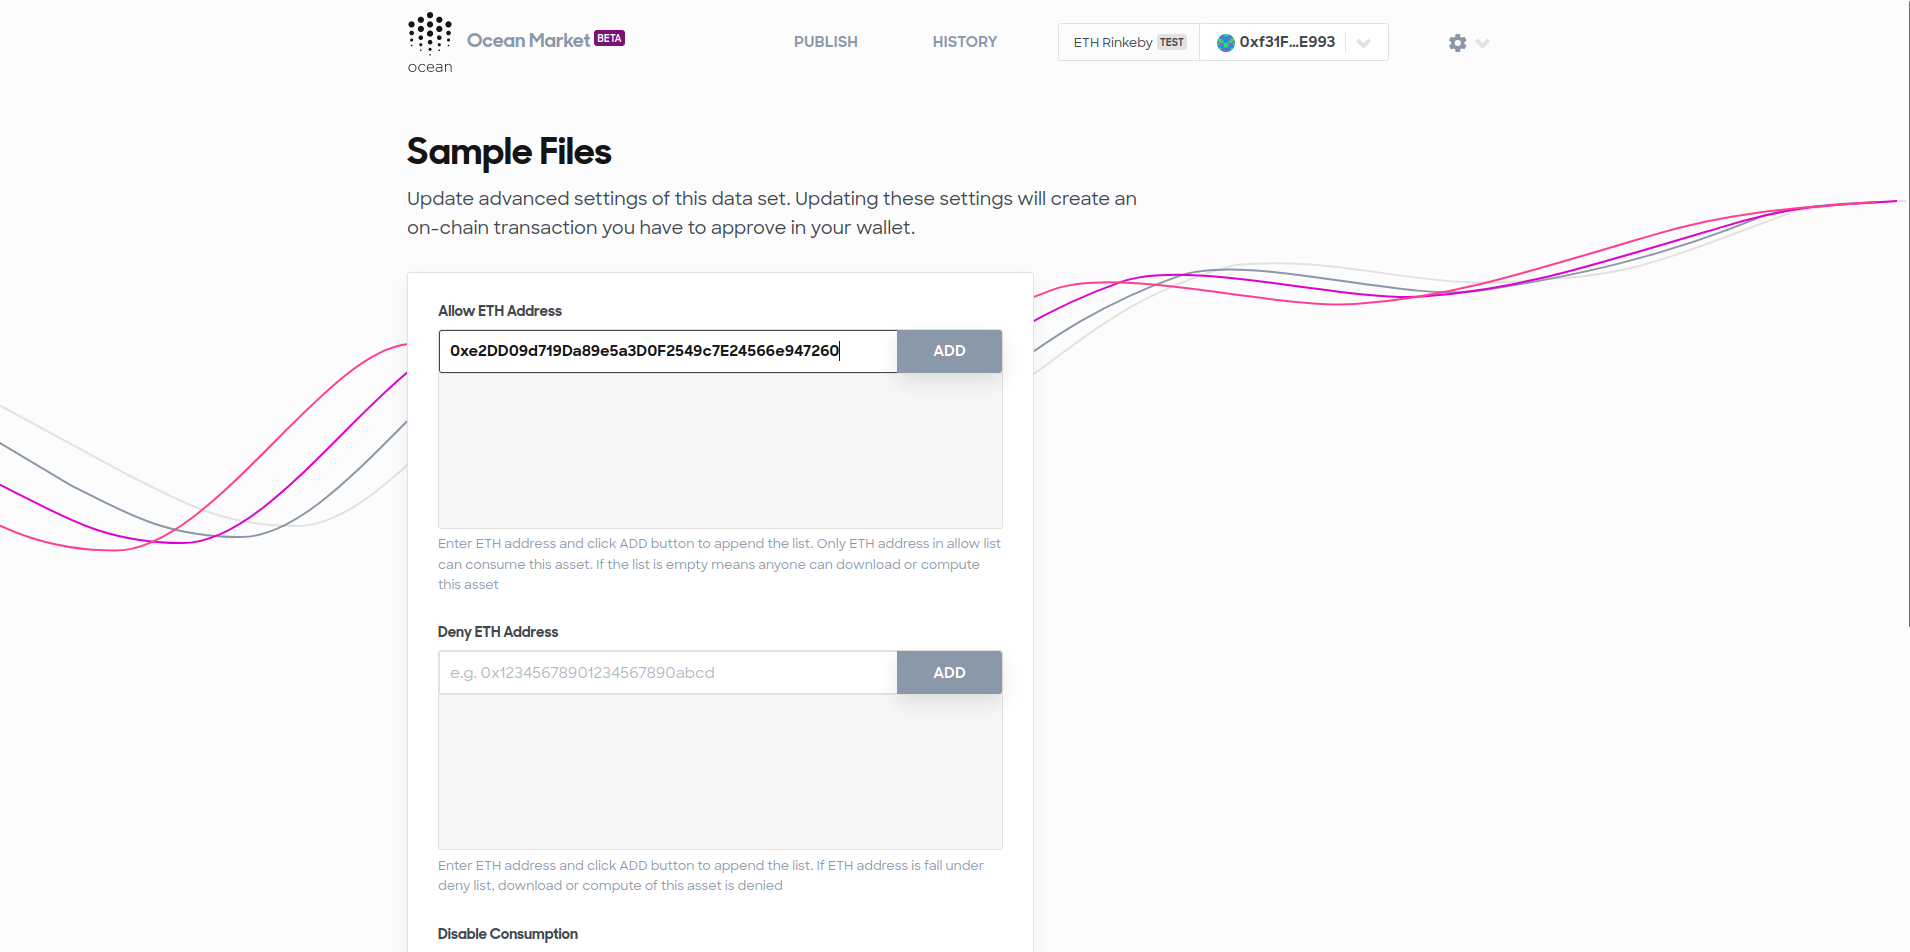
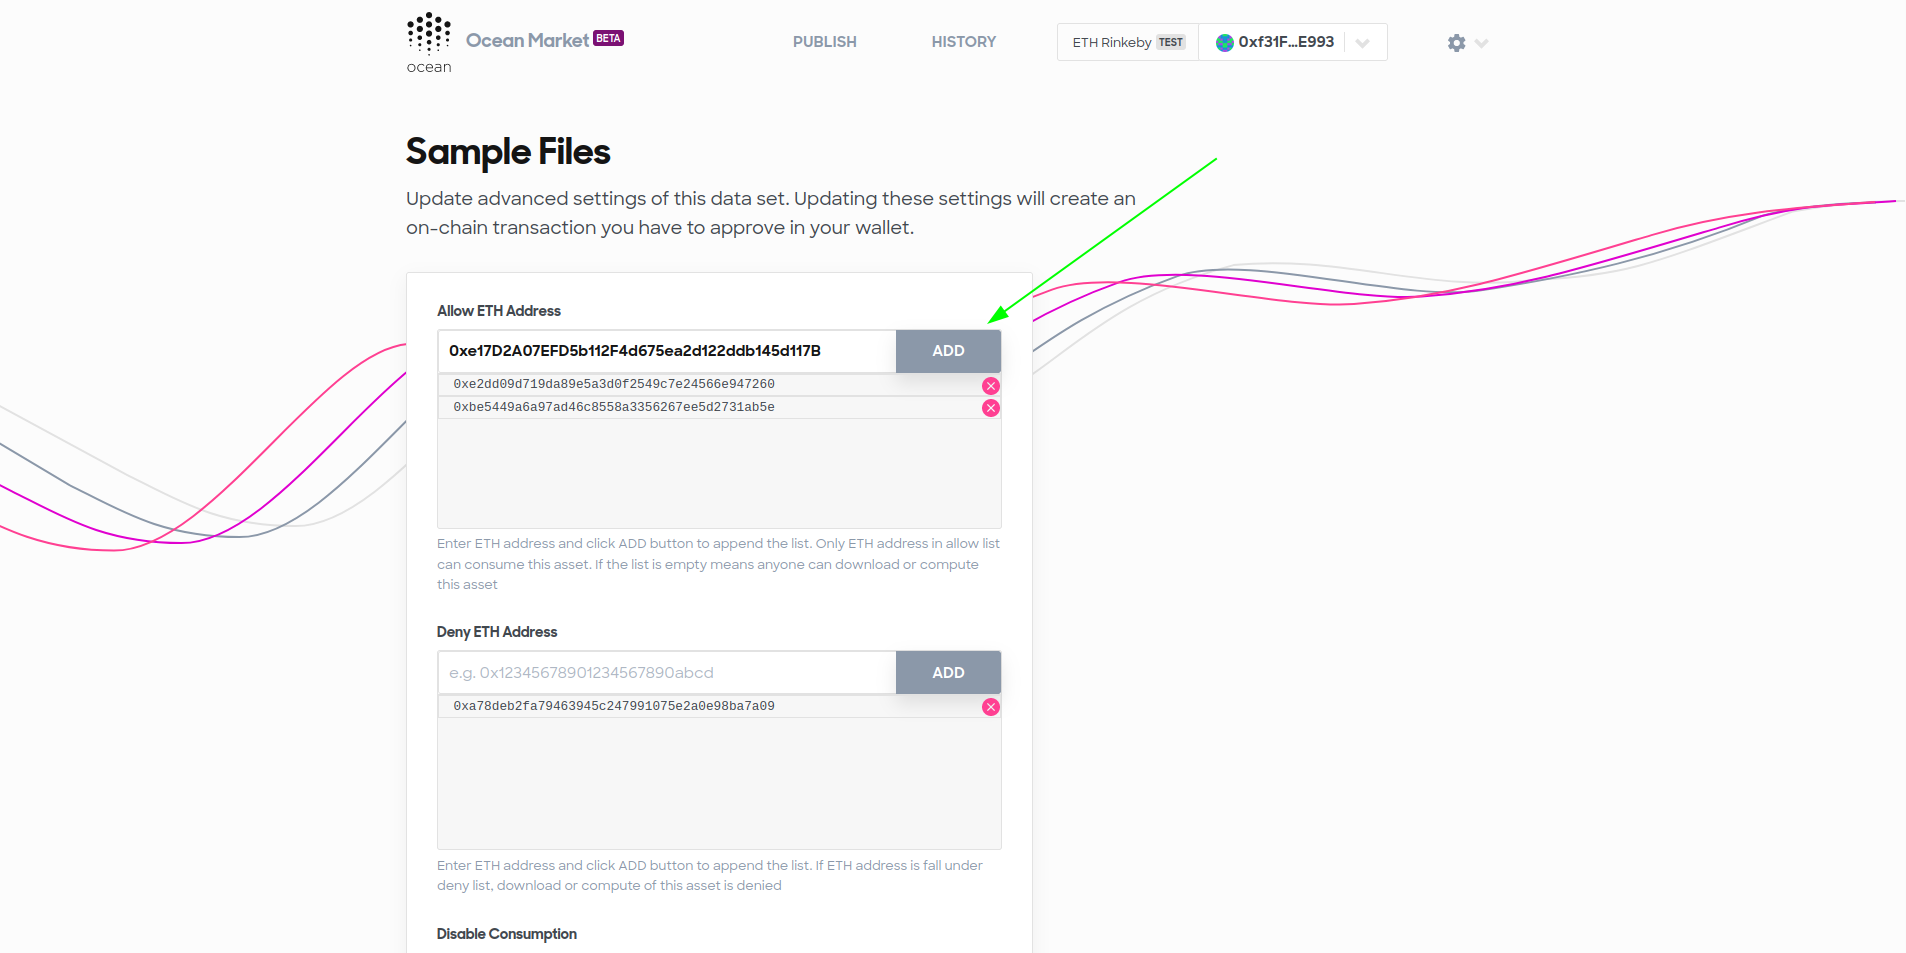
Adding steps for submitting allow/ deny list changes

diff --git a/content/tutorials/allow-deny-lists.md b/content/tutorials/allow-deny-lists.md
@@ -28,3 +28,14 @@ To remove a user from an all or deny list you can click the cross next to their 
 
 Any changes you make on the advanced settings page need to be submitted and signed in a transaction. To do this, first click the "SUBMIT" button.
 
+![Submit changes to allow or deny lists](images/allow-deny-lists/submit.png)
+
+Next you will need to sign the transaction in Metamask, or the wallet of your choice. 
+
+![Sign Metamask transaction](images/allow-deny-lists/metamask-transaction.png)
+
+When the process of updating the allow or deny lists is complete you will a success message. 
+
+![Update allow or deny list success](images/allow-deny-lists/update-success.png)
+
+
